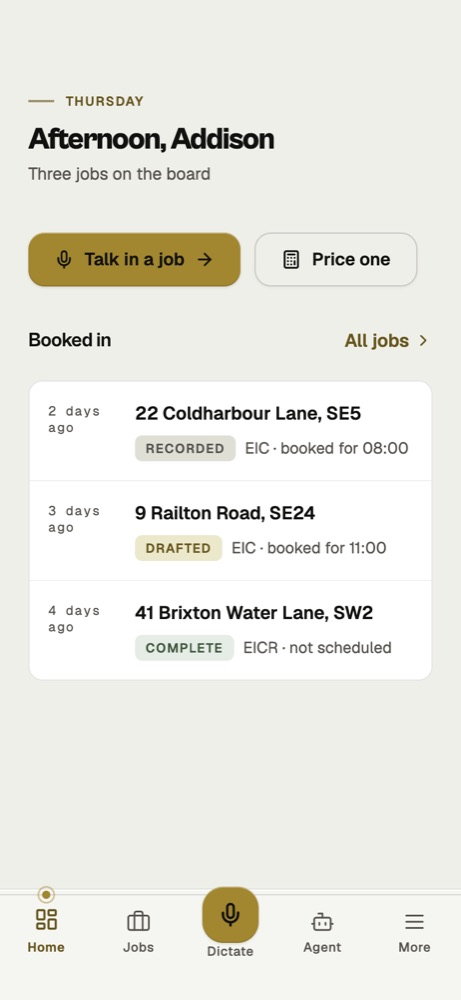
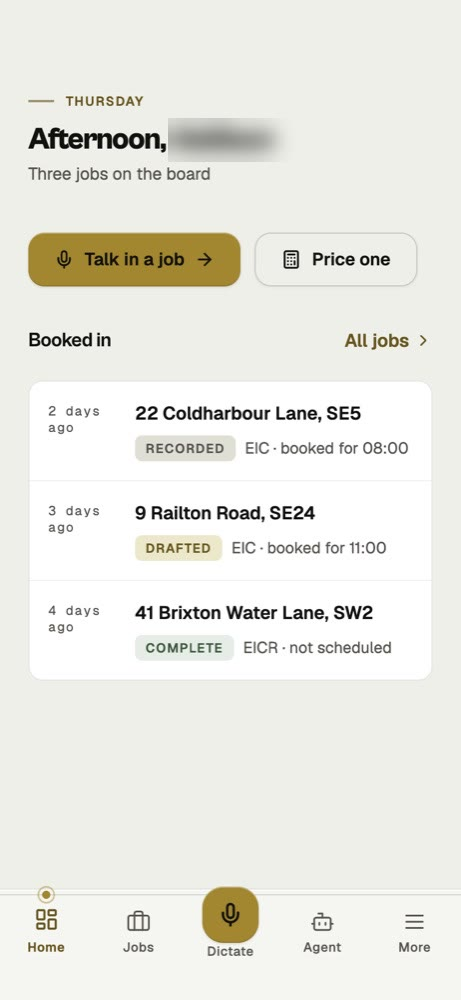
Jack's profile facts: 504-scenario harness, randomised holdout, Square Health, Hills, IAAF volunteering; blur client name in TradeMind shot

Changed region(s): [[0.3644, 0.093, 0.6074, 0.186]]

diff --git a/index.html b/index.html
@@ -199,13 +199,13 @@ footer{padding:28px 0 48px;color:var(--mute);font-size:13px;display:flex;justify
       <h1>Applied AI<br>engineer.<em>Chartered physio, still practising.</em></h1>
       <p class="lede">I build production web apps in <b>React and TypeScript</b>, and the voice agents and evaluation gates behind them. <b>StrydeOS</b> is live in two UK clinics; I run one of them.</p>
       <div class="legend" role="group" aria-label="What the orb is made of">
-        <button data-k="0"><span class="num">300</span><span>simulated callers per Ava release</span></button>
+        <button data-k="0"><span class="num">504</span><span>simulated calls gate each Ava release</span></button>
         <button data-k="1"><span class="num">579</span><span>patients scored by Pulse</span></button>
         <button data-k="2"><span class="num">535</span><span>tests behind the Driiva cutover</span></button>
         <button data-k="3"><span class="num">835</span><span>peoples mapped in 3D</span></button>
         <button data-k="4"><span class="num">500</span><span>Evidence training examples</span></button>
       </div>
-      <p class="orb-note">The orb is <span class="num">2,749</span> points, one per number above. Point at one.</p>
+      <p class="orb-note">The orb is <span class="num">2,953</span> points, one per number above. Point at one.</p>
     </div>
   </section>
 </div>
@@ -233,9 +233,9 @@ footer{padding:28px 0 48px;color:var(--mute);font-size:13px;display:flex;justify
         <p>An operating system for UK physiotherapy clinics: a voice agent, clinical and operational intelligence over the practice-management system, and an evidence layer, in one multi-tenant product. I own engineering, product, infrastructure, security and GDPR.</p>
         <ul>
           <li><b>Ava, the voice agent.</b> Twilio into ElevenLabs Conversational AI running Claude, with webhook tools into a TypeScript booking layer that writes to Cliniko and WriteUpp.</li>
-          <li><b>Pulse.</b> Scores 579 patient records at the pilot clinic into lifecycle cohorts with a risk score each, and feeds a re-engagement queue.</li>
+          <li><b>Pulse.</b> Scores 579 patient records at the pilot clinic into lifecycle cohorts with a risk score each, and runs re-engagement on each patient's preferred channel, measured against a randomised holdout.</li>
           <li><b>Evidence.</b> On-device RAG over open-weight models: Qwen, and a Gemma I distilled and fine-tuned for clinical reasoning. Multi-turn answers keep their sources; citations are built in code, never by the model.</li>
-          <li><b>Release gating.</b> 300+ simulated-caller scenarios before each release. Below a 95% pass rate, or with any P0 failure, nothing ships.</li>
+          <li><b>Release gating.</b> A 504-scenario simulated-caller harness runs before each release. Below a 95% pass rate, or with any P0 failure, nothing ships.</li>
           <li><b>Frontend.</b> Next.js, React and TypeScript on a typed token layer, so every surface retints from one palette; WCAG contrast audited across nine routes in both themes.</li>
         </ul>
       </article>
@@ -252,8 +252,12 @@ footer{padding:28px 0 48px;color:var(--mute);font-size:13px;display:flex;justify
           <p>Grew to four clinicians with year-on-year revenue growth; 150+ five-star reviews. Led AI adoption across the practice, cutting clinician admin by roughly 40%.</p></div>
         <div><div class="role-head"><h3>Bupa <span>remote MSK triage physiotherapist</span></h3><span class="when">2025 to now</span></div>
           <p>Triage and caseload management for national insurer services, inside Meddbase and Citrix. Entered Bupa Accelerate 2026, the internal AI hackathon.</p></div>
-        <div><div class="role-head"><h3>CodeVerse, then Connect Health</h3><span class="when">2018 to 2023</span></div>
-          <p>Placed technologists from under-represented communities at Spotify, Sky and Accenture. Before that, graduate to senior physiotherapist in 18 months at the UK's largest integrated MSK provider.</p></div>
+        <div><div class="role-head"><h3>Square Health <span>remote MSK physiotherapist</span></h3><span class="when">2023 to 2025</span></div>
+          <p>Remote MSK caseloads across several insurer brands as an independent supplier: rehabilitation and patient education by video.</p></div>
+        <div><div class="role-head"><h3>CodeVerse <span>business development manager</span></h3><span class="when">2022 to 2023</span></div>
+          <p>Closed enterprise accounts in banking, media and consulting, placing technologists from under-represented communities at Spotify, Sky and Accenture. Ran the technical demos, including live prototypes in Python and HTML.</p></div>
+        <div><div class="role-head"><h3>Hills Physical Developments, then Connect Health</h3><span class="when">2018 to 2021</span></div>
+          <p>Private MSK practice alongside S&amp;C coaches. Before that, graduate to senior physiotherapist in 18 months at the UK's largest integrated MSK provider.</p></div>
       </div>
     </div>
   </div>
@@ -282,10 +286,11 @@ footer{padding:28px 0 48px;color:var(--mute);font-size:13px;display:flex;justify
   </div>
 
   <div class="sec edu">
-    <h2>Education</h2>
+    <h2>Education and volunteering</h2>
     <div>
       <p>BSc (Hons) Physiotherapy, 2:1, University of East London, 2018.</p>
       <p>HCPC registered. Member of the Chartered Society of Physiotherapy.</p>
+      <p>Volunteer, medical team, IAAF World Athletics Championships, London 2017.</p>
     </div>
   </div>
 
@@ -386,7 +391,7 @@ footer{padding:28px 0 48px;color:var(--mute);font-size:13px;display:flex;justify
 <script>
 (() => {
   const RM = matchMedia('(prefers-reduced-motion: reduce)').matches;
-  const COUNTS = [300, 579, 535, 835, 500];
+  const COUNTS = [504, 579, 535, 835, 500];
   const TOTAL = COUNTS.reduce((a, b) => a + b, 0);
   // cool aperture ramp from the Shippers mark, outer to inner
   const RAMP = ['#5f7aab', '#6a5bd0', '#3f62e0', '#4d8dff', '#7fb0ff'];
